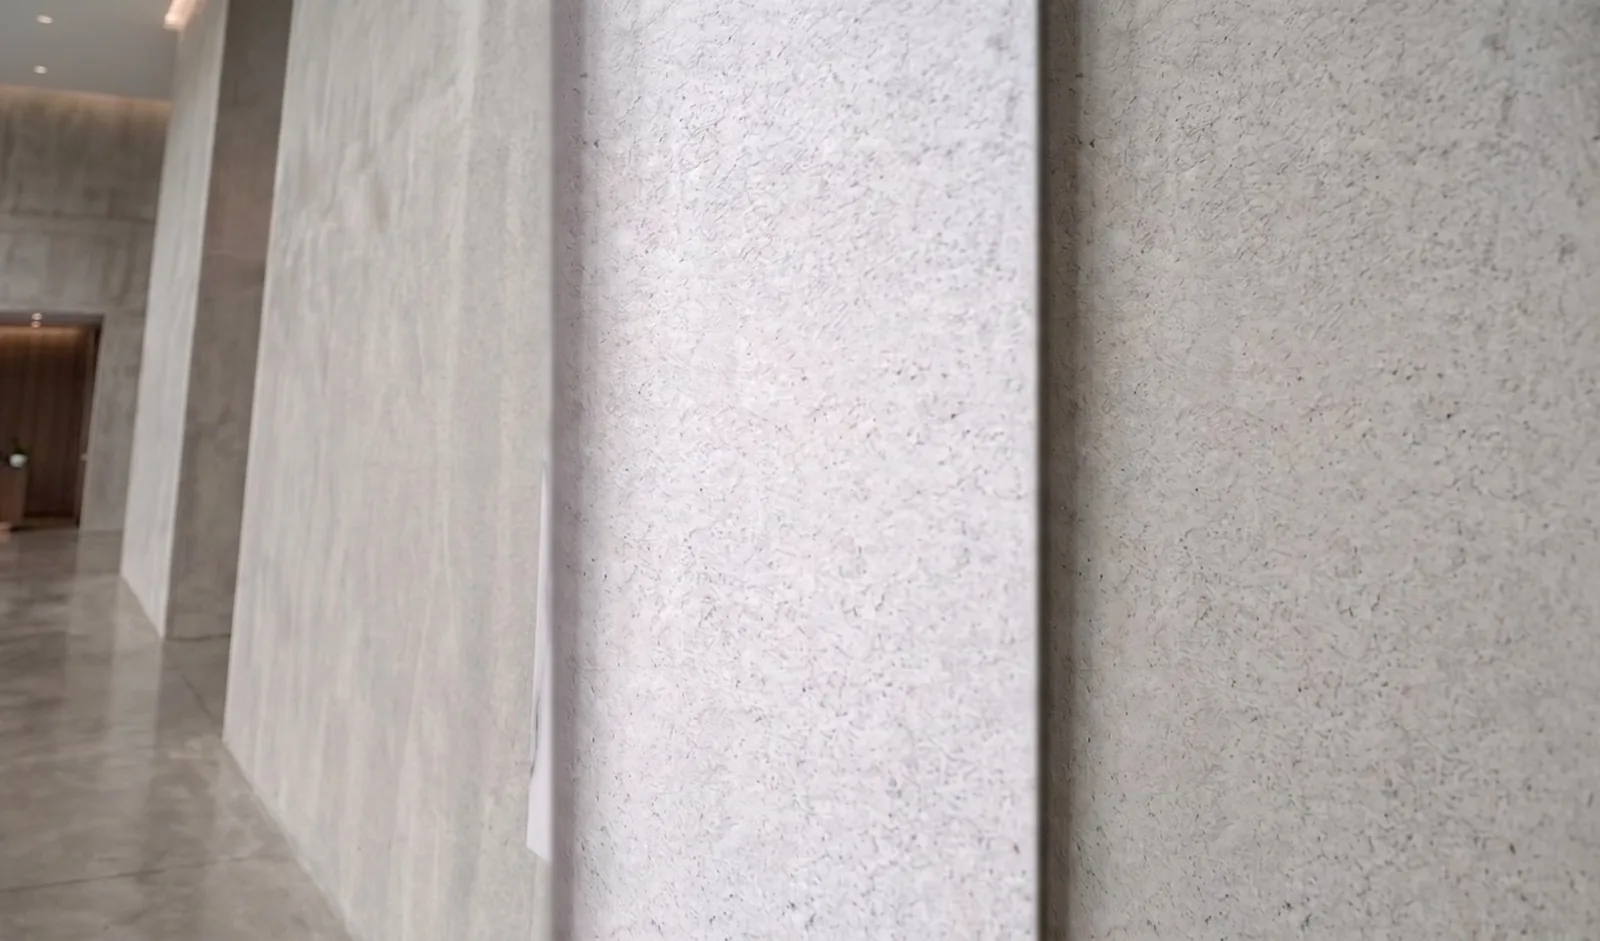
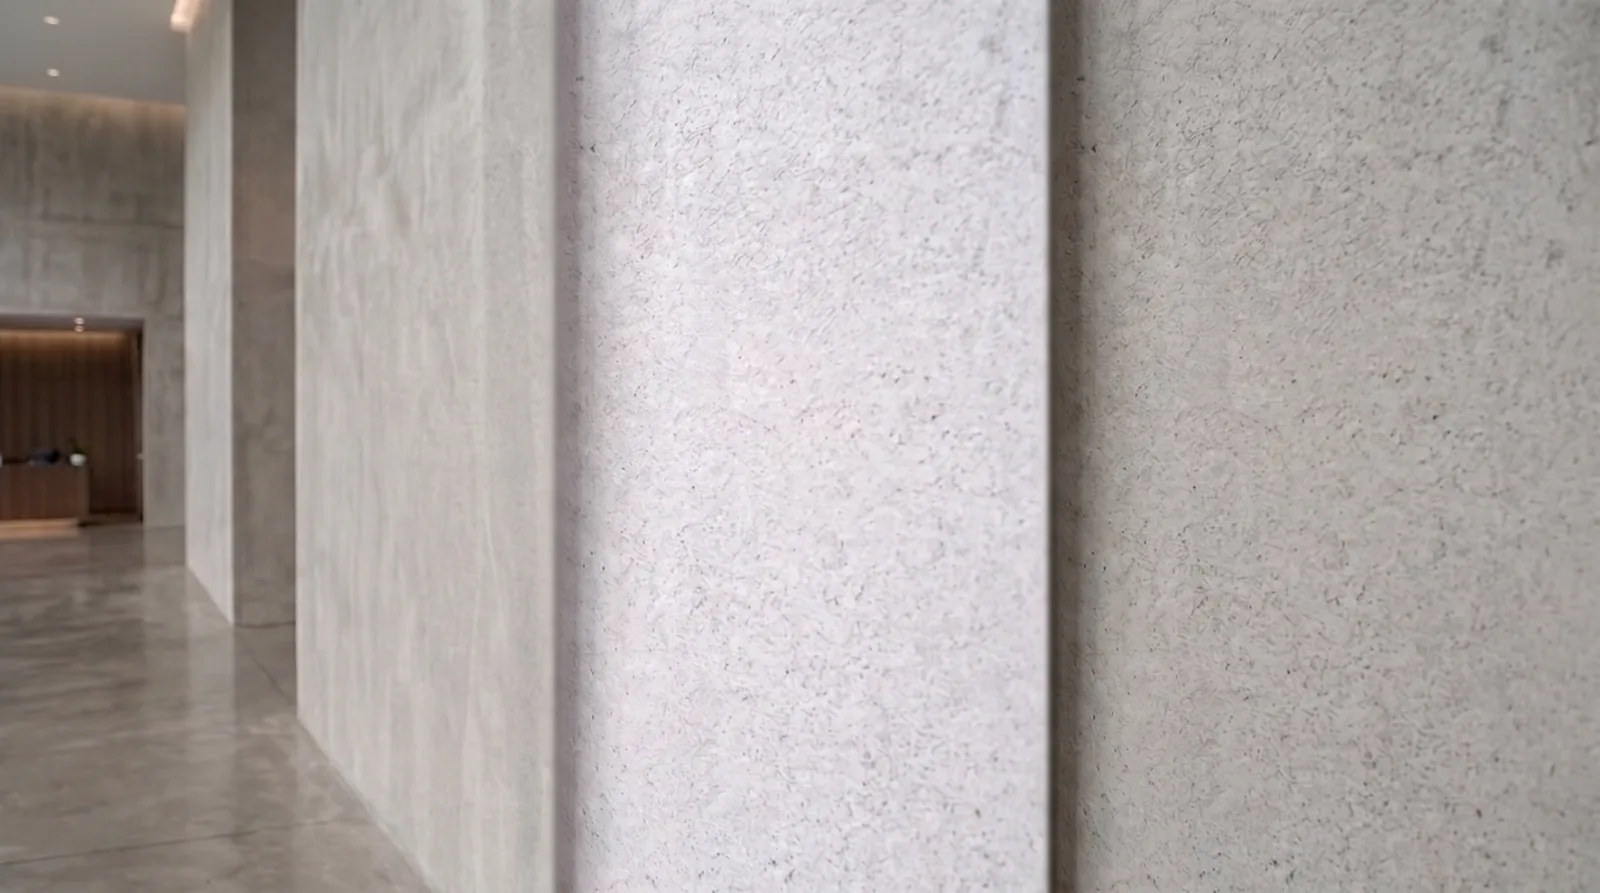
還原場景原始透視，僅校正大理石板本身
plate 改回由原始照片產生(走廊/地板/牆面透視原封不動)；
panel 取自透視校正影像(左右緣完全垂直的正矩形)，貼回原位、右緣貼齊牆柱。
場景 = 原照片，板材 = 正矩形，兩者兼得。

diff --git a/index.html b/index.html
@@ -447,12 +447,12 @@ footer{background:#0f0c09;color:rgba(255,255,255,.6);padding:64px 0 30px}
 .tech-wall{position:absolute;inset:0;z-index:0;pointer-events:none;overflow:hidden}
 /* 舞台維持照片比例並填滿區塊，板材才能用百分比精準對位 */
 .tw-stage{position:absolute;top:50%;left:50%;transform:translate(-50%,-50%);
-  aspect-ratio:1600/941;min-width:100%;min-height:100%;
+  aspect-ratio:1600/893;min-width:100%;min-height:100%;
   filter:brightness(.86) saturate(.95) contrast(1.02);  /* 盡量保留原照片的樣子 */
   transition:transform .5s cubic-bezier(.22,.61,.36,1)}
 .tw-plate{position:absolute;inset:0;background:url('img/tech/plate.webp') center/100% 100% no-repeat}
-/* 板材：left/width 對應它在校正後照片中的位置；整片平行位移貼合，不旋轉 */
-.tw-panel{position:absolute;left:34.55%;top:0;width:30.19%;height:100%;
+/* 板材：拉正後的正矩形，貼回原透視場景中的原位；整片平行位移貼合，不旋轉 */
+.tw-panel{position:absolute;left:36.56%;top:0;width:28.67%;height:100%;
   background:url('img/tech/panel.webp') center/100% 100% no-repeat;
   will-change:transform,filter;backface-visibility:hidden;
   filter:drop-shadow(-8px 3px 14px rgba(0,0,0,.38))}
